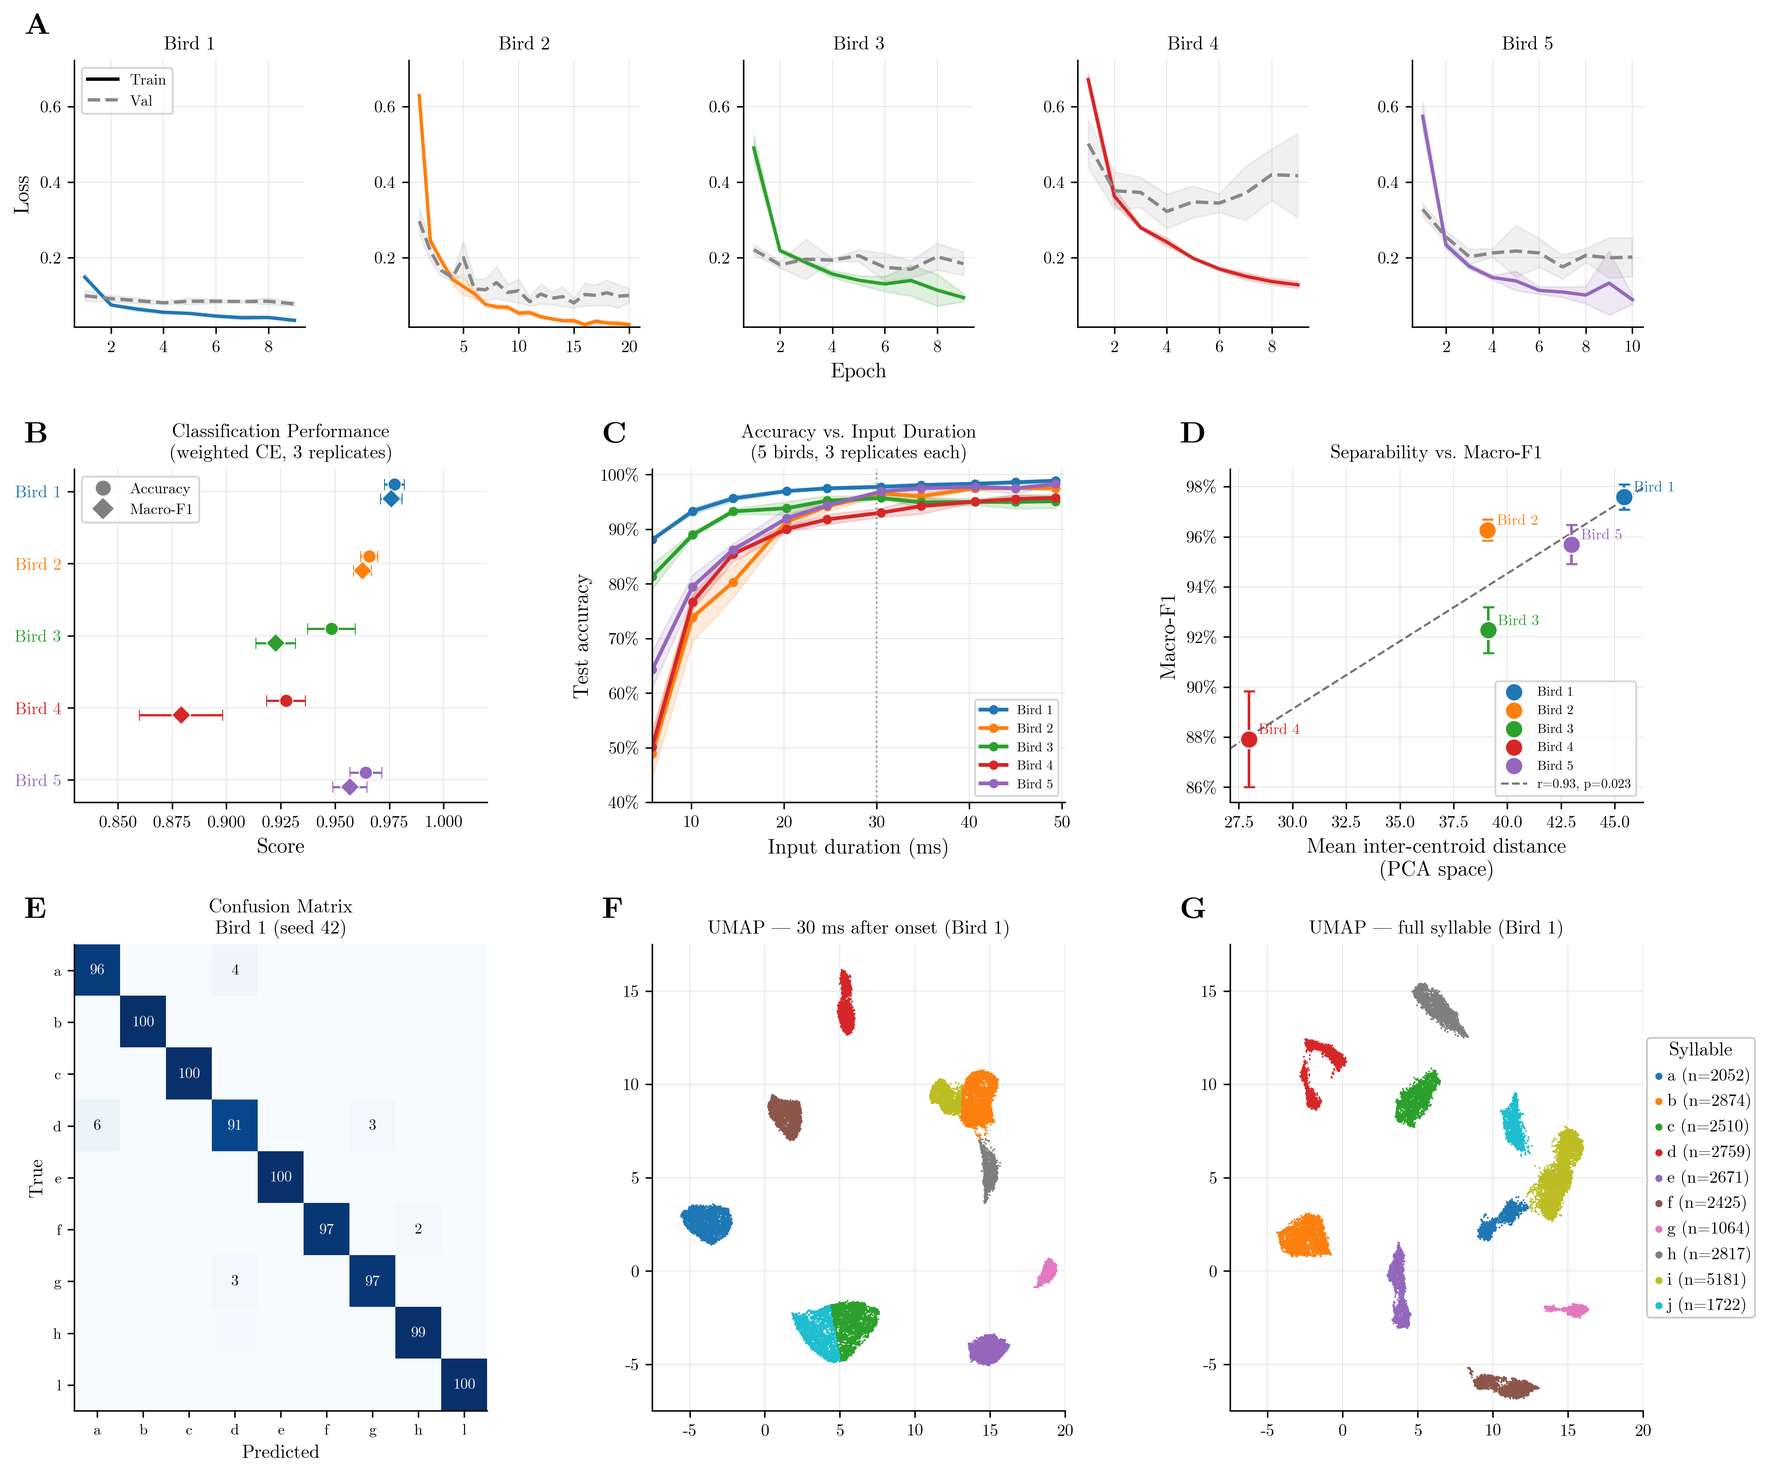
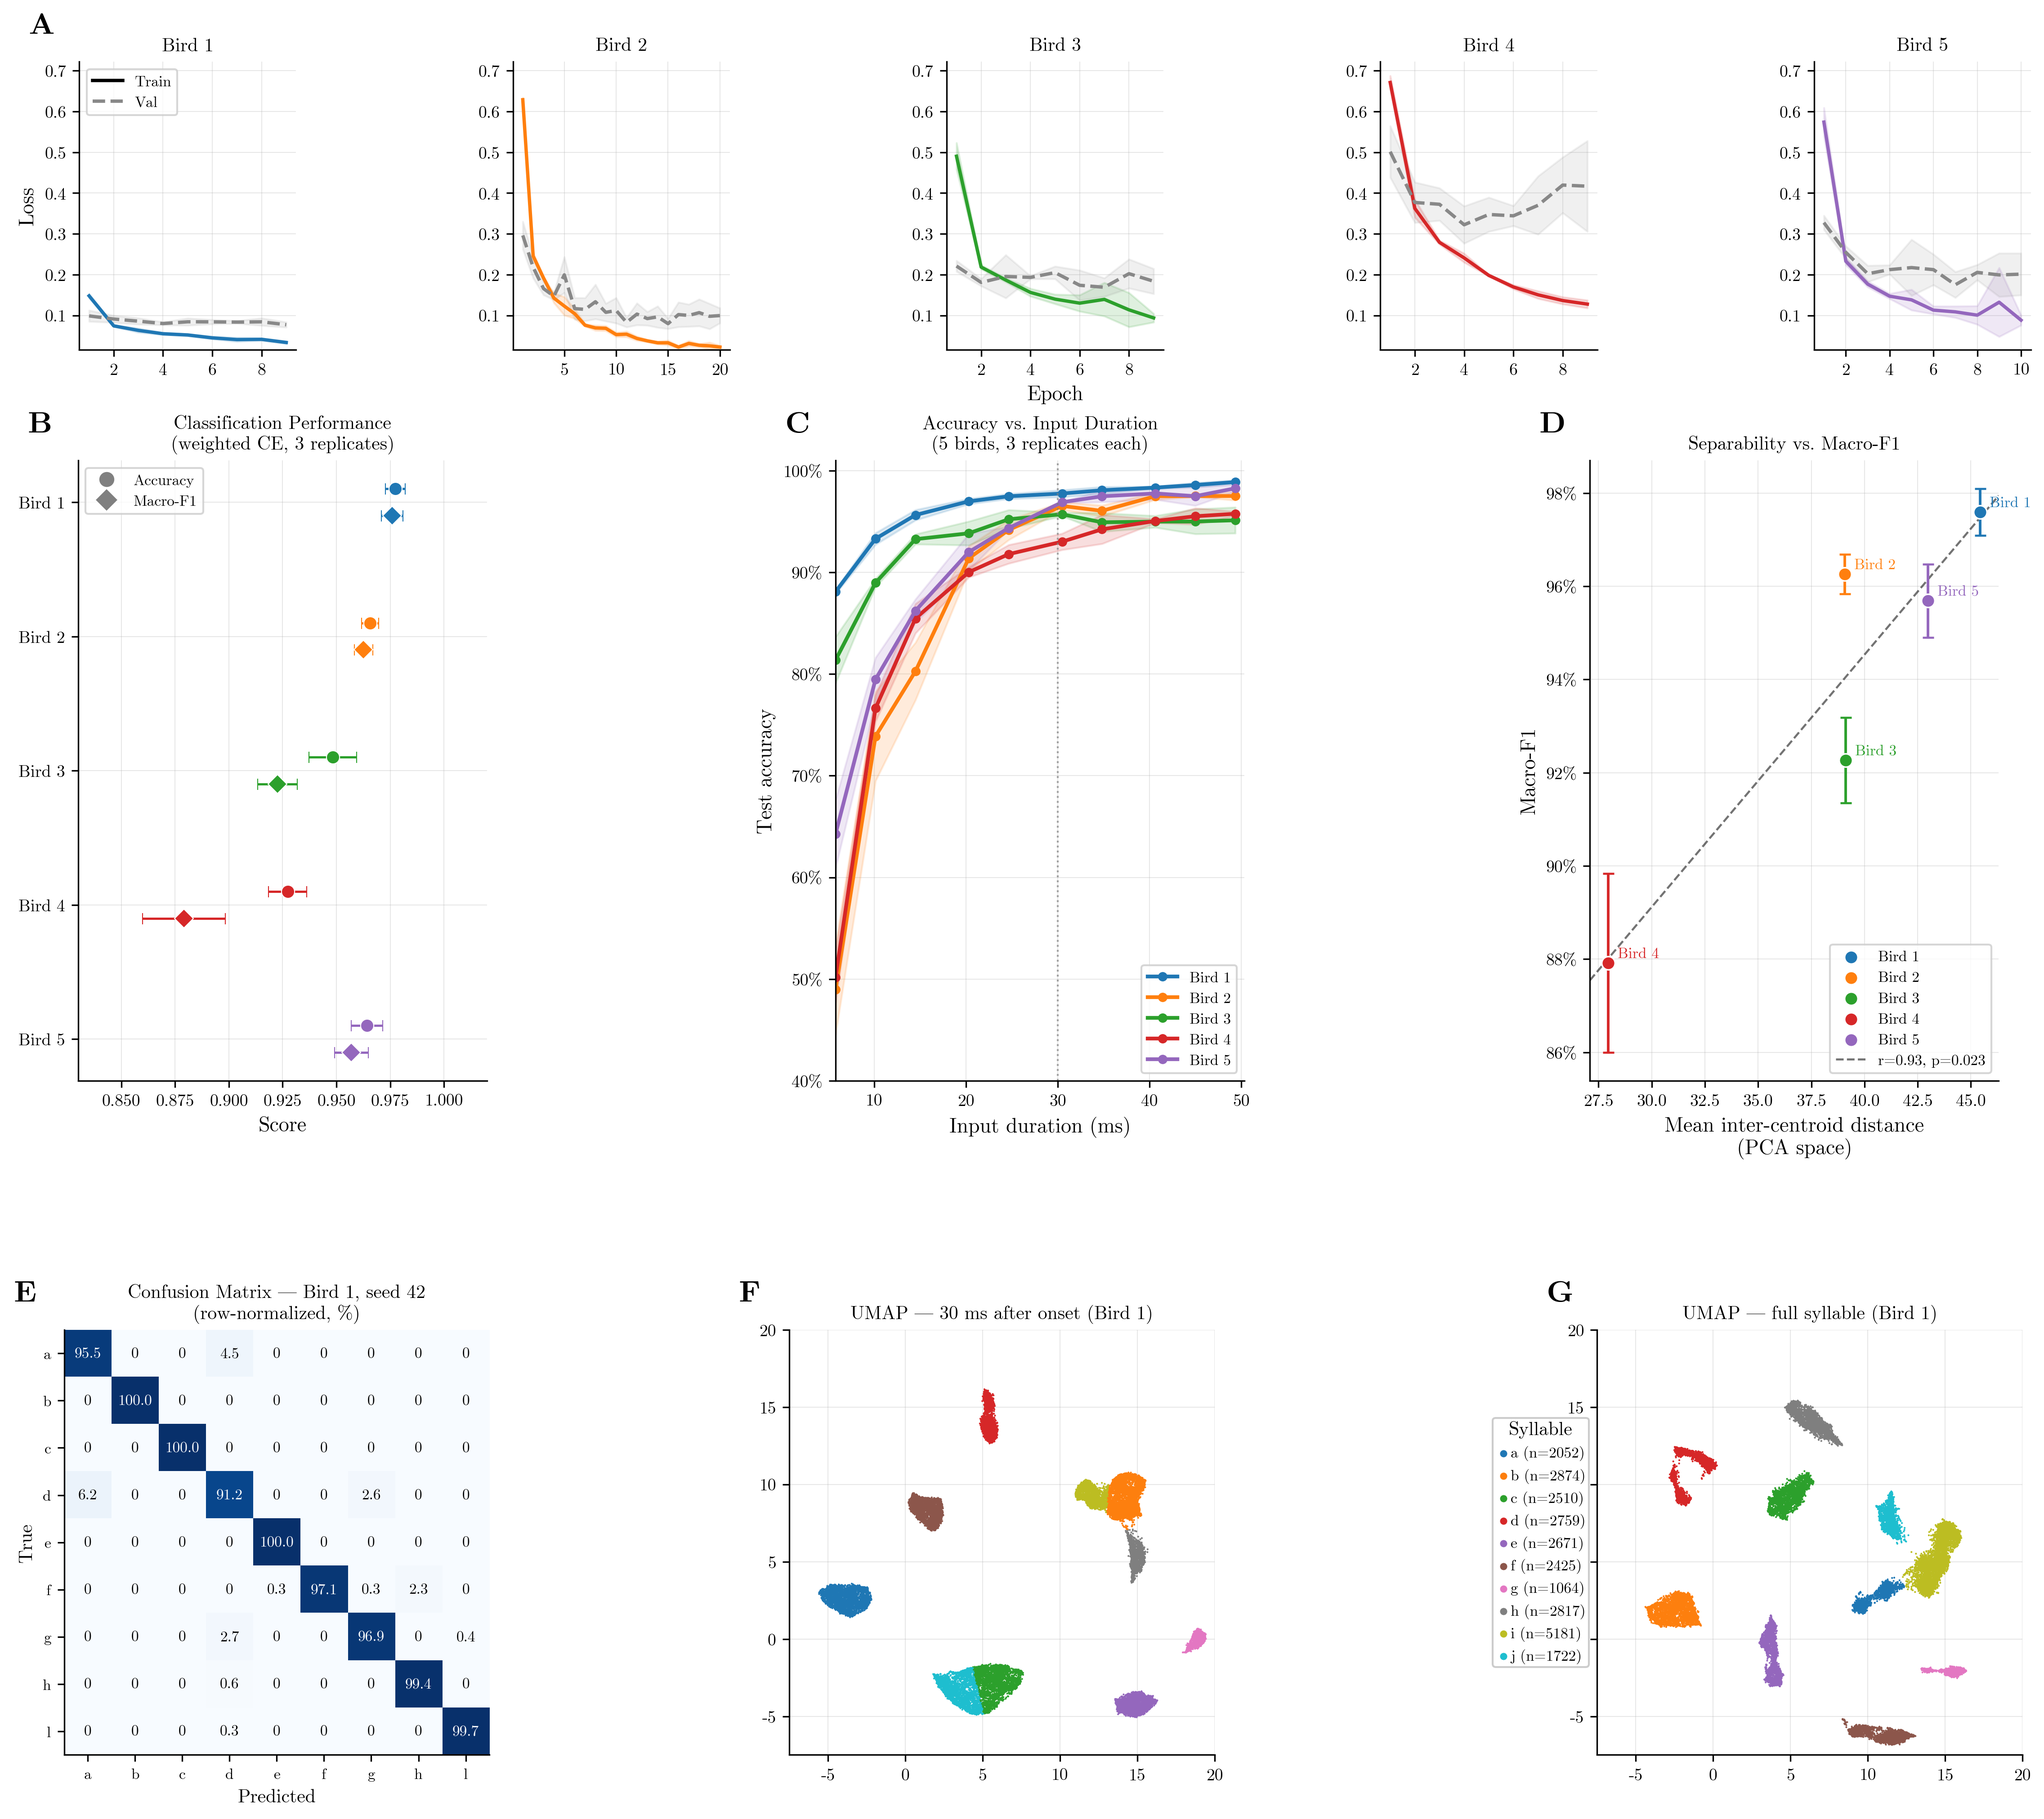
dere

diff --git a/classification_chapter/figure_5/generate_figure5.py b/classification_chapter/figure_5/generate_figure5.py
@@ -176,8 +176,6 @@ def plot_class_metrics_dots(ax, results):
     ]
     ax.set_yticks(y)
     ax.set_yticklabels([BIRD_LABELS[b] for b in birds])
-    for tick, bird in zip(ax.get_yticklabels(), birds):
-        tick.set_color(BIRD_COLORS[bird])
     ax.set_xlabel("Score")
     ax.set_title("Classification Performance\n(weighted CE, 3 replicates)")
     ax.set_xlim(0.83, 1.02)
@@ -195,7 +193,7 @@ def _sep_scatter(ax, sep_data, metric_key, metric_std_key, ylabel, title):
 
     for i, bird in enumerate(birds):
         color = BIRD_COLORS[bird]
-        ax.scatter([xs[i]], [ys[i]], color=color, s=90, zorder=4,
+        ax.scatter([xs[i]], [ys[i]], color=color, s=50, zorder=4,
                    edgecolors="white", linewidth=0.8, label=BIRD_LABELS[bird])
         ax.errorbar([xs[i]], [ys[i]], yerr=[ye[i]],
                     fmt="none", color=color, linewidth=1.4,
@@ -213,7 +211,7 @@ def _sep_scatter(ax, sep_data, metric_key, metric_std_key, ylabel, title):
     ax.set_ylabel(ylabel)
     ax.set_title(title)
     ax.yaxis.set_major_formatter(FuncFormatter(lambda v, _: f"{v:.0%}"))
-    ax.legend(fontsize=7, loc="lower right")
+    ax.legend(fontsize=8, loc="lower right")
 
 
 def plot_sep_vs_f1(ax, sep_data):
@@ -276,7 +274,7 @@ def plot_input_duration(ax, sweep):
     ax.set_xlim(LENGTHS_MS[0], LENGTHS_MS[-1] + 1)
     ax.set_ylim(0.40, 1.01)
     ax.set_xticks([10, 20, 30, 40, 50])
-    ax.legend(fontsize=7, loc="lower right")
+    ax.legend(fontsize=8, loc="lower right")
 
 
 # ── Panel C: Confusion matrix from .npy ──────────────────────────────
@@ -300,19 +298,20 @@ def plot_confusion_matrix(ax):
     for i in range(n):
         for j in range(n):
             val = cm_norm[i, j] * 100
-            if val > 1.0:
-                ax.text(j, i, f"{val:.0f}", ha="center", va="center",
-                        fontsize=8,
-                        color="white" if val > 50 else "black")
+            txt = f"{val:.1f}" if val > 0.05 else "0"
+            ax.text(j, i, txt, ha="center", va="center",
+                    fontsize=8,
+                    color="white" if val > 50 else "black")
     ax.set_xticks(range(n)); ax.set_xticklabels(labels, fontsize=8)
     ax.set_yticks(range(n)); ax.set_yticklabels(labels, fontsize=8)
     ax.set_xlabel("Predicted", fontsize=10)
     ax.set_ylabel("True", fontsize=10)
-    ax.set_title("Confusion Matrix\nBird 1 (seed 42)", fontsize=10)
+    ax.set_title("Confusion Matrix — Bird 1, seed 42\n(row-normalized, %)", fontsize=10)
     ax.grid(False)
+    ax.set_aspect("equal", adjustable="box")
 
 
-# ── Panels G & H: UMAP ───────────────────────────────────────────────
+# ── Panels F & G: UMAP ───────────────────────────────────────────────
 
 UMAP_COLORS = ["#1f77b4","#fd7f0e","#2ca02c","#d62728","#9467bd",
                "#8c564b","#e377c2","#7f7f7f","#bcbd22","#1ebecf"]
@@ -331,17 +330,18 @@ def plot_umap(ax, df, title, show_legend=True):
     for i, lbl in enumerate(labels_sorted):
         ax.scatter([], [], s=8, c=[UMAP_COLORS[i % len(UMAP_COLORS)]],
                    label=f"{lbl} (n={counts[lbl]})")
-    ax.set_xlim(-7.5, 20); ax.set_ylim(-7.5, 17.5)
-    ax.set_xticks(np.arange(-5,21,5)); ax.set_yticks(np.arange(-5,18,5))
+    ax.set_xlim(-7.5, 20); ax.set_ylim(-7.5, 20)
+    ax.set_xticks(np.arange(-5,21,5)); ax.set_yticks(np.arange(-5,21,5))
     ax.xaxis.set_major_formatter(FuncFormatter(lambda x,_: str(int(x))))
     ax.yaxis.set_major_formatter(FuncFormatter(lambda x,_: str(int(x))))
     ax.set_xlabel(""); ax.set_ylabel("")
     ax.set_title(title, fontsize=10)
+    ax.set_aspect("equal", adjustable="box")
     if show_legend:
-        ax.legend(loc="center left", bbox_to_anchor=(1.01, 0.5),
+        ax.legend(loc="center right", bbox_to_anchor=(-0.02, 0.5),
                   borderaxespad=0., handlelength=1, handletextpad=0,
                   labelspacing=0.5, borderpad=0.2, frameon=True,
-                  framealpha=1, title="Syllable", fontsize=9, markerscale=1)
+                  framealpha=1, title="Syllable", fontsize=8, markerscale=1)
 
 
 # ── Compose figure ────────────────────────────────────────────────────
@@ -361,10 +361,9 @@ def generate_figure5():
     # ── Grid: outer 3-rows × 1-col, inner per-row gridspecs ────────────
     from matplotlib.gridspec import GridSpecFromSubplotSpec
 
-    fig = plt.figure(figsize=(15, 13))
-    # Outer: controls vertical spacing between rows
-    outer = fig.add_gridspec(3, 1, hspace=0.40,
-                             height_ratios=[0.8, 1.0, 1.4])
+    fig = plt.figure(figsize=(15, 14), layout="constrained")
+    # Outer: constrained_layout manages spacing automatically
+    outer = fig.add_gridspec(3, 1, height_ratios=[0.5, 1.0, 1.0])
 
     # Row 0: A — 5 loss subplots
     gs0 = GridSpecFromSubplotSpec(1, 5, subplot_spec=outer[0], wspace=0.45)
